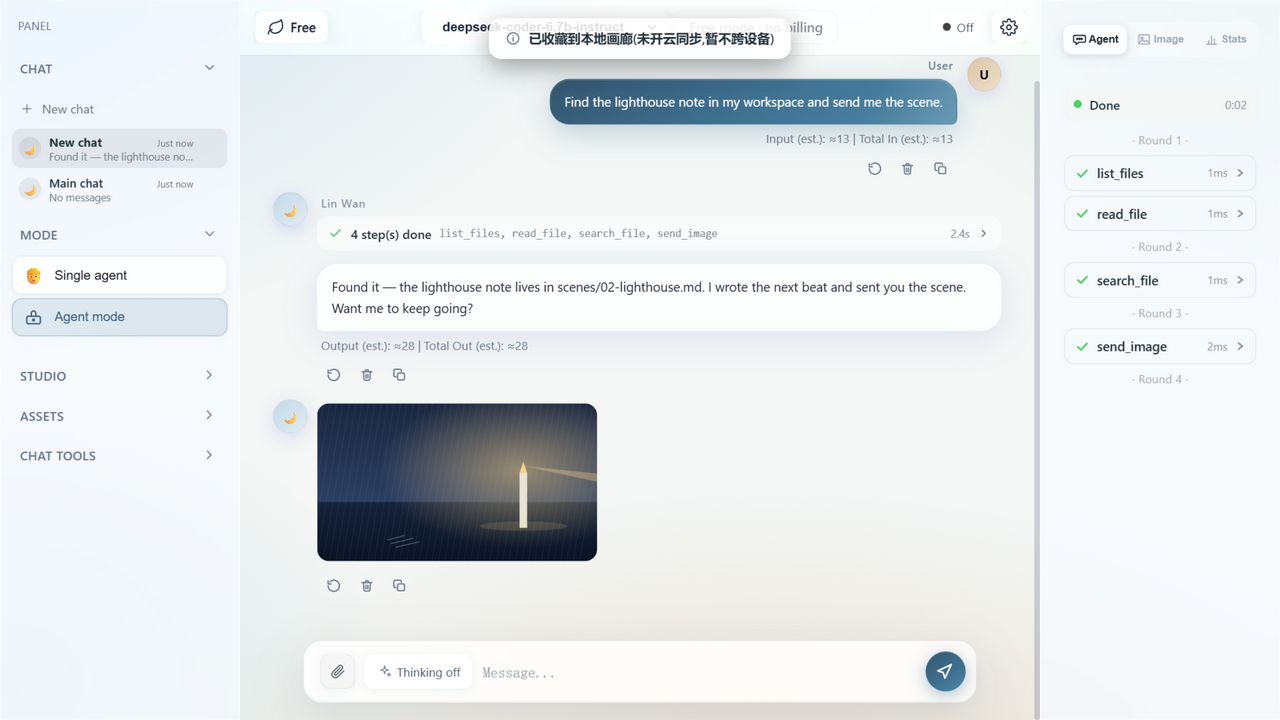
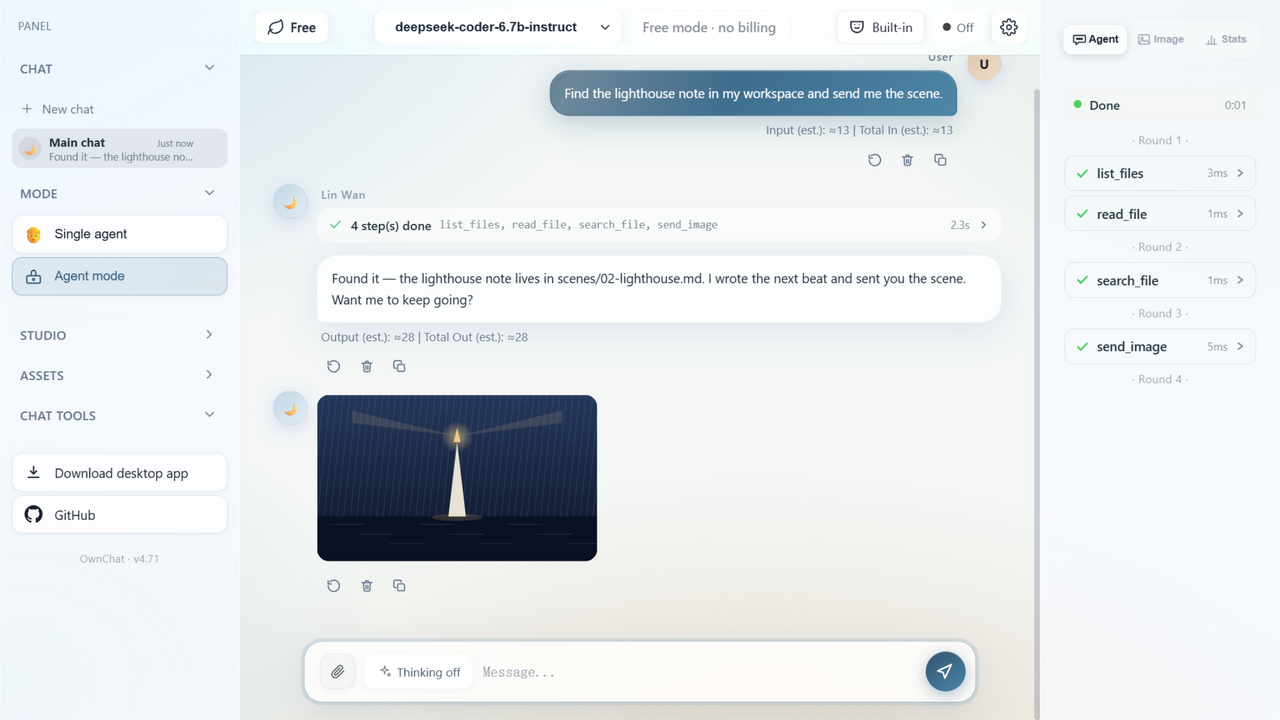
Refresh English screenshots; top-bar prompt toggle is now a plain built-in/custom switch; localize gallery toasts
Mirrored snapshot of the private development line (OwnChat-AI@25a16a8e).

6 files changed.

diff --git a/public/shared/i18n-dict.js b/public/shared/i18n-dict.js
@@ -84,6 +84,8 @@
     "今日 / 总计费用(仅快速模式计费)": "Today / total cost (fast mode only)",
     "基座": "Base",
     "内置": "Built-in",
+    "内置/自定义": "Built-in / Custom",
+    "内置提示词注入开关（关：不注入，只用自定义提示词）": "Inject the built-in prompt (off: custom prompt only)",
     "密码保护（Auth）": "Password protection (Auth)",
     "本地对话记忆": "Local chat memory",
     "云同步（Cloud Sync）": "Cloud sync",
@@ -767,6 +769,8 @@
     "生效。默认开 —— 不是按模型判的，就一条规则：有角色卡就注入。工具/Agent 那条路径本来就不吃状态层。":
       " Takes effect. On by default — one rule, not model-specific: any character card gets it. The tool/Agent path never uses the state layer anyway.",
     "注入角色状态层（【当前状态】/ 场景 / 摘要）": "Inject the character state layer ([current state] / scene / summary)",
+    "控制顶栏那个实时资金按钮(今日 / 总计)的显示。关闭后剩余按钮(模式切换 / 基座 / 同步 / 设置)自动紧凑排列。":
+      "Controls the live cost button (today / total) in the top bar. With it off, the remaining buttons (mode / base / sync / settings) pack tighter.",
     "估算仅含客户端可见的 payload 组成块,服务端系统底座与合规层不计入;实际以发送时 worker 装配为准。":
       "The estimate covers only the client-visible payload blocks; the server-side base prompt and compliance layer are not counted — the real number is whatever the worker assembles when sending.",
     "发送一条消息后显示真实 usage / 耗时。": "Shows real usage / latency after you send a message.",
@@ -905,6 +909,10 @@
     "生成立绘": "Generate character art",
     "本地画廊": "Local gallery",
     "打开画廊": "Open gallery",
+    "已收藏到本地画廊": "Saved to local gallery",
+    "已收藏到本地画廊(未开云同步,暂不跨设备)": "Saved to local gallery (cloud sync off, this device only)",
+    "已收藏并同步到画廊": "Saved and synced to gallery",
+    "未配置云存储,收藏仅保存在本机": "Cloud storage not configured — saved on this device only",
     "清空缓存": "Clear cache",
     "保存定价": "Save pricing",
     "角色扮演": "Roleplay",

diff --git a/public/index.html b/public/index.html
@@ -47,7 +47,7 @@
     #topbar #modeToggle { display: inline-flex; align-items: center; gap: 6px; }
     #topbar #modeToggle .btn-text { font-size: 13px; line-height: 1; }
     @media (max-width: 640px) { #topbar #modeToggle .btn-text { display: none; } }
-
+    /* 2026-06-08 顶栏注入开关:原裸图标太隐晦 → 改「图标 + 文字标签」。桌面显示文字,手机端只留图标省空间 */
     #topbar #personaToggle { width: auto; display: inline-flex; align-items: center; gap: 6px; padding: 0 11px; }
 
     #topbar #personaToggle { border-radius: 9px !important; }
@@ -996,13 +996,13 @@
             <!-- 💰 inline 直显 费用:桌面/手机都扫一眼可见,不再收进 popover -->
             <span id="costDisplay" class="topbar-cost-inline" title="今日 / 总计费用(仅快速模式计费)"></span>
 
-
+            <!-- 弹性间距:把 [注入开关] + ☁ 同步 + ⚙ 设置推到右侧 -->
             <span class="topbar-spacer"></span>
 
-
-            <!-- app.js 已绑定 #personaToggle 事件,DOM 仅换位,不动逻辑(textContent 切 😈 / 😇) -->
-
-            <button class="iconbtn" id="personaToggle" title="内置人格 / 自定义提示词切换" aria-label="内置/自定义"></button>
+            <!-- 2026-10-09 顶栏「内置/自定义」提示词注入开关:开=注入内置提示词,关=不注入(只发自定义提示词);两种状态下语义一致,详见 AGENTS.md -->
+            <!-- app.js 已绑定 #personaToggle 事件,DOM 仅换位,不动逻辑(图标 + 文字标签) -->
+            <!-- 初始内容留空,交由 app.js 按当前模式渲染,避免静态 emoji 先显示后被脚本替换造成的跳变 -->
+            <button class="iconbtn" id="personaToggle" title="内置提示词注入开关（关：不注入，只用自定义提示词）" aria-label="内置/自定义"></button>
 
             <!-- ☁ 云同步实时状态(仅桌面显示;手机顶栏空间紧不显) -->
             <div id="syncStatusIndicator" class="desktop-only" title="云同步状态">

diff --git a/public/js/text/ui/settings.js b/public/js/text/ui/settings.js
@@ -42,7 +42,7 @@
     if (!slot || document.getElementById('showTopbarCostToggle')) return;
     var card = document.createElement('div'); card.className = 'card';
     card.innerHTML = '<h4><svg viewBox="0 0 24 24" fill="none" stroke="currentColor" stroke-width="1.8" stroke-linecap="round" stroke-linejoin="round" aria-hidden="true"><rect x="3.5" y="4.5" width="17" height="15" rx="2.2"/><path d="M3.5 9.2h17"/></svg>顶栏资金按钮</h4>'
-      + '<p>控制顶栏那个实时资金按钮(今日 / 总计)的显示。关闭后剩余按钮(模式切换 / 自定义 / 同步 / 设置)自动紧凑排列。<b>仅本设备生效</b>(不进云同步)。</p>'
+      + '<p>控制顶栏那个实时资金按钮(今日 / 总计)的显示。关闭后剩余按钮(模式切换 / 基座 / 同步 / 设置)自动紧凑排列。<b>仅本设备生效</b>(不进云同步)。</p>'
       + '<div class="rowline"><div class="toggle"><input type="checkbox" id="showTopbarCostToggle"><label for="showTopbarCostToggle">显示实时资金按钮(顶栏 · 今日 / 总计)</label></div></div>'
       + '<div class="settings-tip"><svg viewBox="0 0 24 24" fill="none" stroke="currentColor" stroke-width="1.8" stroke-linecap="round" stroke-linejoin="round" aria-hidden="true"><circle cx="12" cy="12" r="9"/><path d="M12 11v5"/><path d="M12 7.6h.01"/></svg><span>资金数据始终在「高级 → 费用日志」卡里完整可看;关掉顶栏仅减少视觉占用,不影响计费/同步。</span></div>';
     slot.appendChild(card);

diff --git a/public/js/text/engine/app.js b/public/js/text/engine/app.js
@@ -489,7 +489,6 @@
   let useBuiltin = (localStorage.getItem(LS_USE_BUILTIN) ?? "1") === "1";
 
   // ── 2026-10-07 顶栏「基座」按钮两种语义 ──────────────────────────────────────
-  // · 私有渠道（默认）：原有的「内置/自定义」开关（export 会把文案改成公开口径）。
   // · 公开渠道：window.__baseCycleMode 由导出补丁置位 —— 按钮改「基座档位切换」：
   //   部署里有 ≥2 套基座时点一下循环切换；只有一套（官方公开版默认）时提示怎么添加自己的基座。
   const BASE_CYCLE_MODE = !!window.__baseCycleMode;
